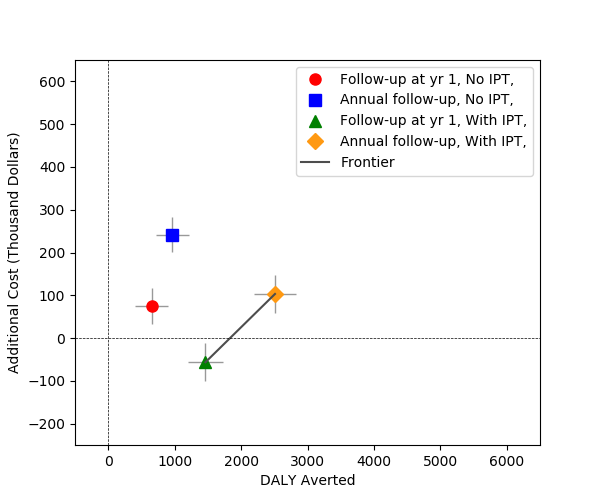
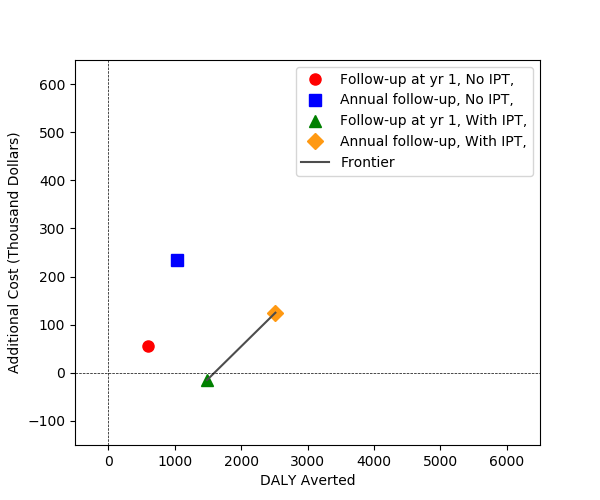
TB

diff --git a/tb/TB_CEA.py b/tb/TB_CEA.py
@@ -5,7 +5,7 @@ import SimPy.EconEvalClasses as Econ
 markers = ['o', 's', '^', 'D']
 colors = ['r', 'b', 'g', '#FF9912']
 
-PROB = .75
+PROB = 0.5
 
 # conditions of variables to define scenarios to display on the cost-effectiveness plane
 # here we want scenarios with
@@ -65,10 +65,10 @@ for i, ser in enumerate(series):
         y_err_l = ser.yValues[j]-ser.yIntervals[j][0]
         y_err_u = ser.yIntervals[j][1] - ser.yValues[j]
 
-        ax.errorbar(x_value, ser.yValues[j],
-                    xerr=[[x_err_l], [x_err_u]],
-                    yerr=[[y_err_l], [y_err_u]],
-                    fmt='none', color='k', linewidth=1, alpha=0.4)
+        # ax.errorbar(x_value, ser.yValues[j],
+        #             xerr=[[x_err_l], [x_err_u]],
+        #             yerr=[[y_err_l], [y_err_u]],
+        #             fmt='none', color='k', linewidth=1, alpha=0.4)
 
     ax.plot(ser.frontierXValues, ser.frontierYValues, color=ser.color, alpha=1)
 
@@ -79,7 +79,7 @@ for i, ser in enumerate(series):
 plt.xlabel('DALY Averted')
 plt.ylabel('Additional Cost (Thousand Dollars)')
 plt.xlim(-500, 6500)
-plt.ylim(-250, 650)
+plt.ylim(-150, 650)
 plt.axvline(x=0, linestyle='--', color='black', linewidth=.5)
 plt.axhline(y=0, linestyle='--', color='black', linewidth=.5)
 plt.savefig('figures/cea/' + 'CEA {:.{prec}f}%'.format(PROB*100, prec=0) + '.png')

diff --git a/apace/ScenariosClasses.py b/apace/ScenariosClasses.py
@@ -273,7 +273,6 @@ class Series:
         # cost-effectiveness analysis
         self.CEA = Econ.CEA(self.strategies,
                             if_paired=True,
-                            if_find_frontier=self.ifFindFrontier,
                             health_measure=Econ.HealthMeasure.DISUTILITY)
 
         # if to save the results of the CEA
